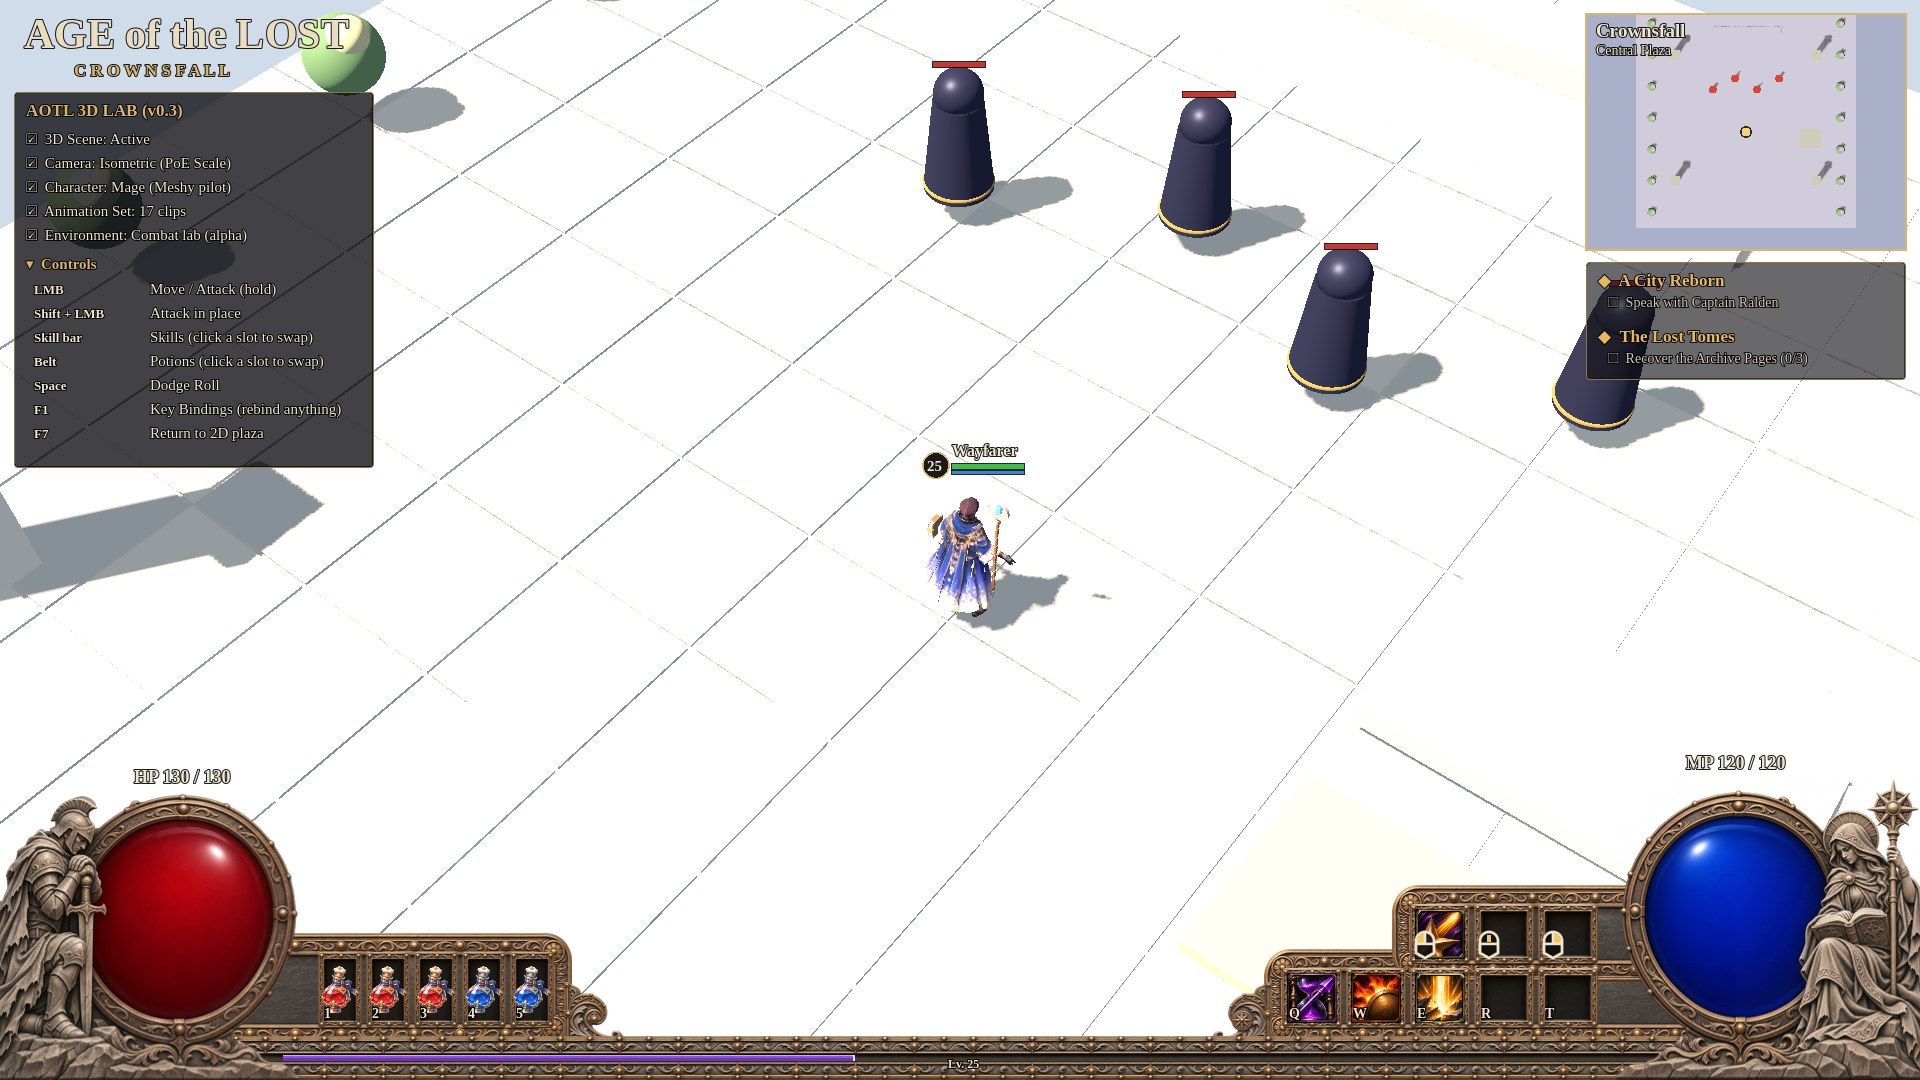
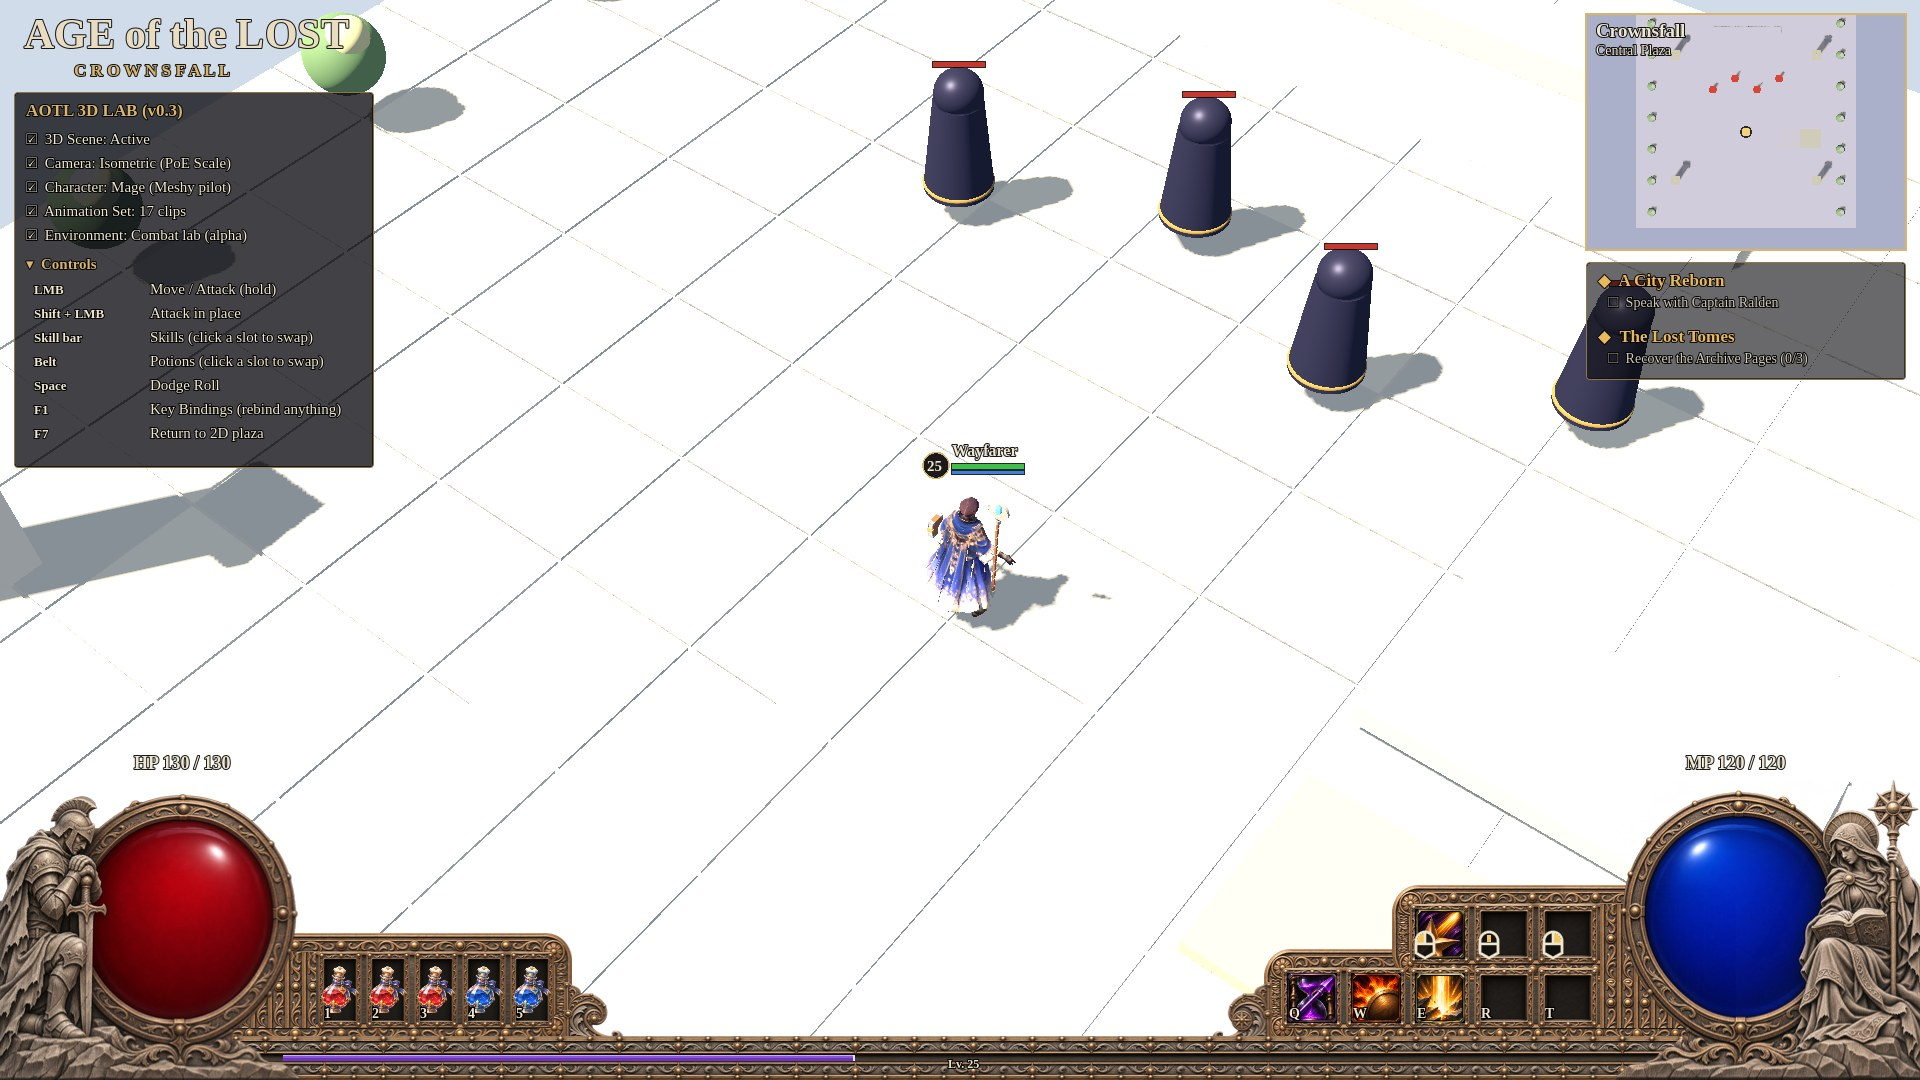
ARPG HUD: HP/MP on one line; filigree panelling in the globe-side gaps
Claude-Session: https://claude.ai/code/session_01HXUneWBipxvB69FSMXEcEC

Changed region(s): [[0.8125, 0.825, 0.875, 0.9778], [0.125, 0.8861, 0.1875, 0.9778], [0.0625, 0.7028, 0.125, 0.7333]]

diff --git a/game/crownsfall_lootslice/docs/ARPG_HUD_QA_2026-11-20.md b/game/crownsfall_lootslice/docs/ARPG_HUD_QA_2026-11-20.md
@@ -180,3 +180,8 @@ Next (needs owner credit approval): replace the placeholder statue + globe corne
 - Rail spans the full screen width; panel frames extend behind the rings so no empty wedge remains at the globe bases; frame edges tile instead of stretching.
 - Mouse glyph: capsule with the whole bound button lit. Potion/skill icons inset inside the socket rims.
 - Tests: arpg_hud 79/79; regression 994/994.
+
+## Revision 19
+- HP and MP values share one horizontal line (above the taller corner).
+- The frame interior between each globe and its panel is filled with the frame's own bronze filigree border art (tiled), not plain stone.
+- Tests: arpg_hud 80/80; regression 994/994.
